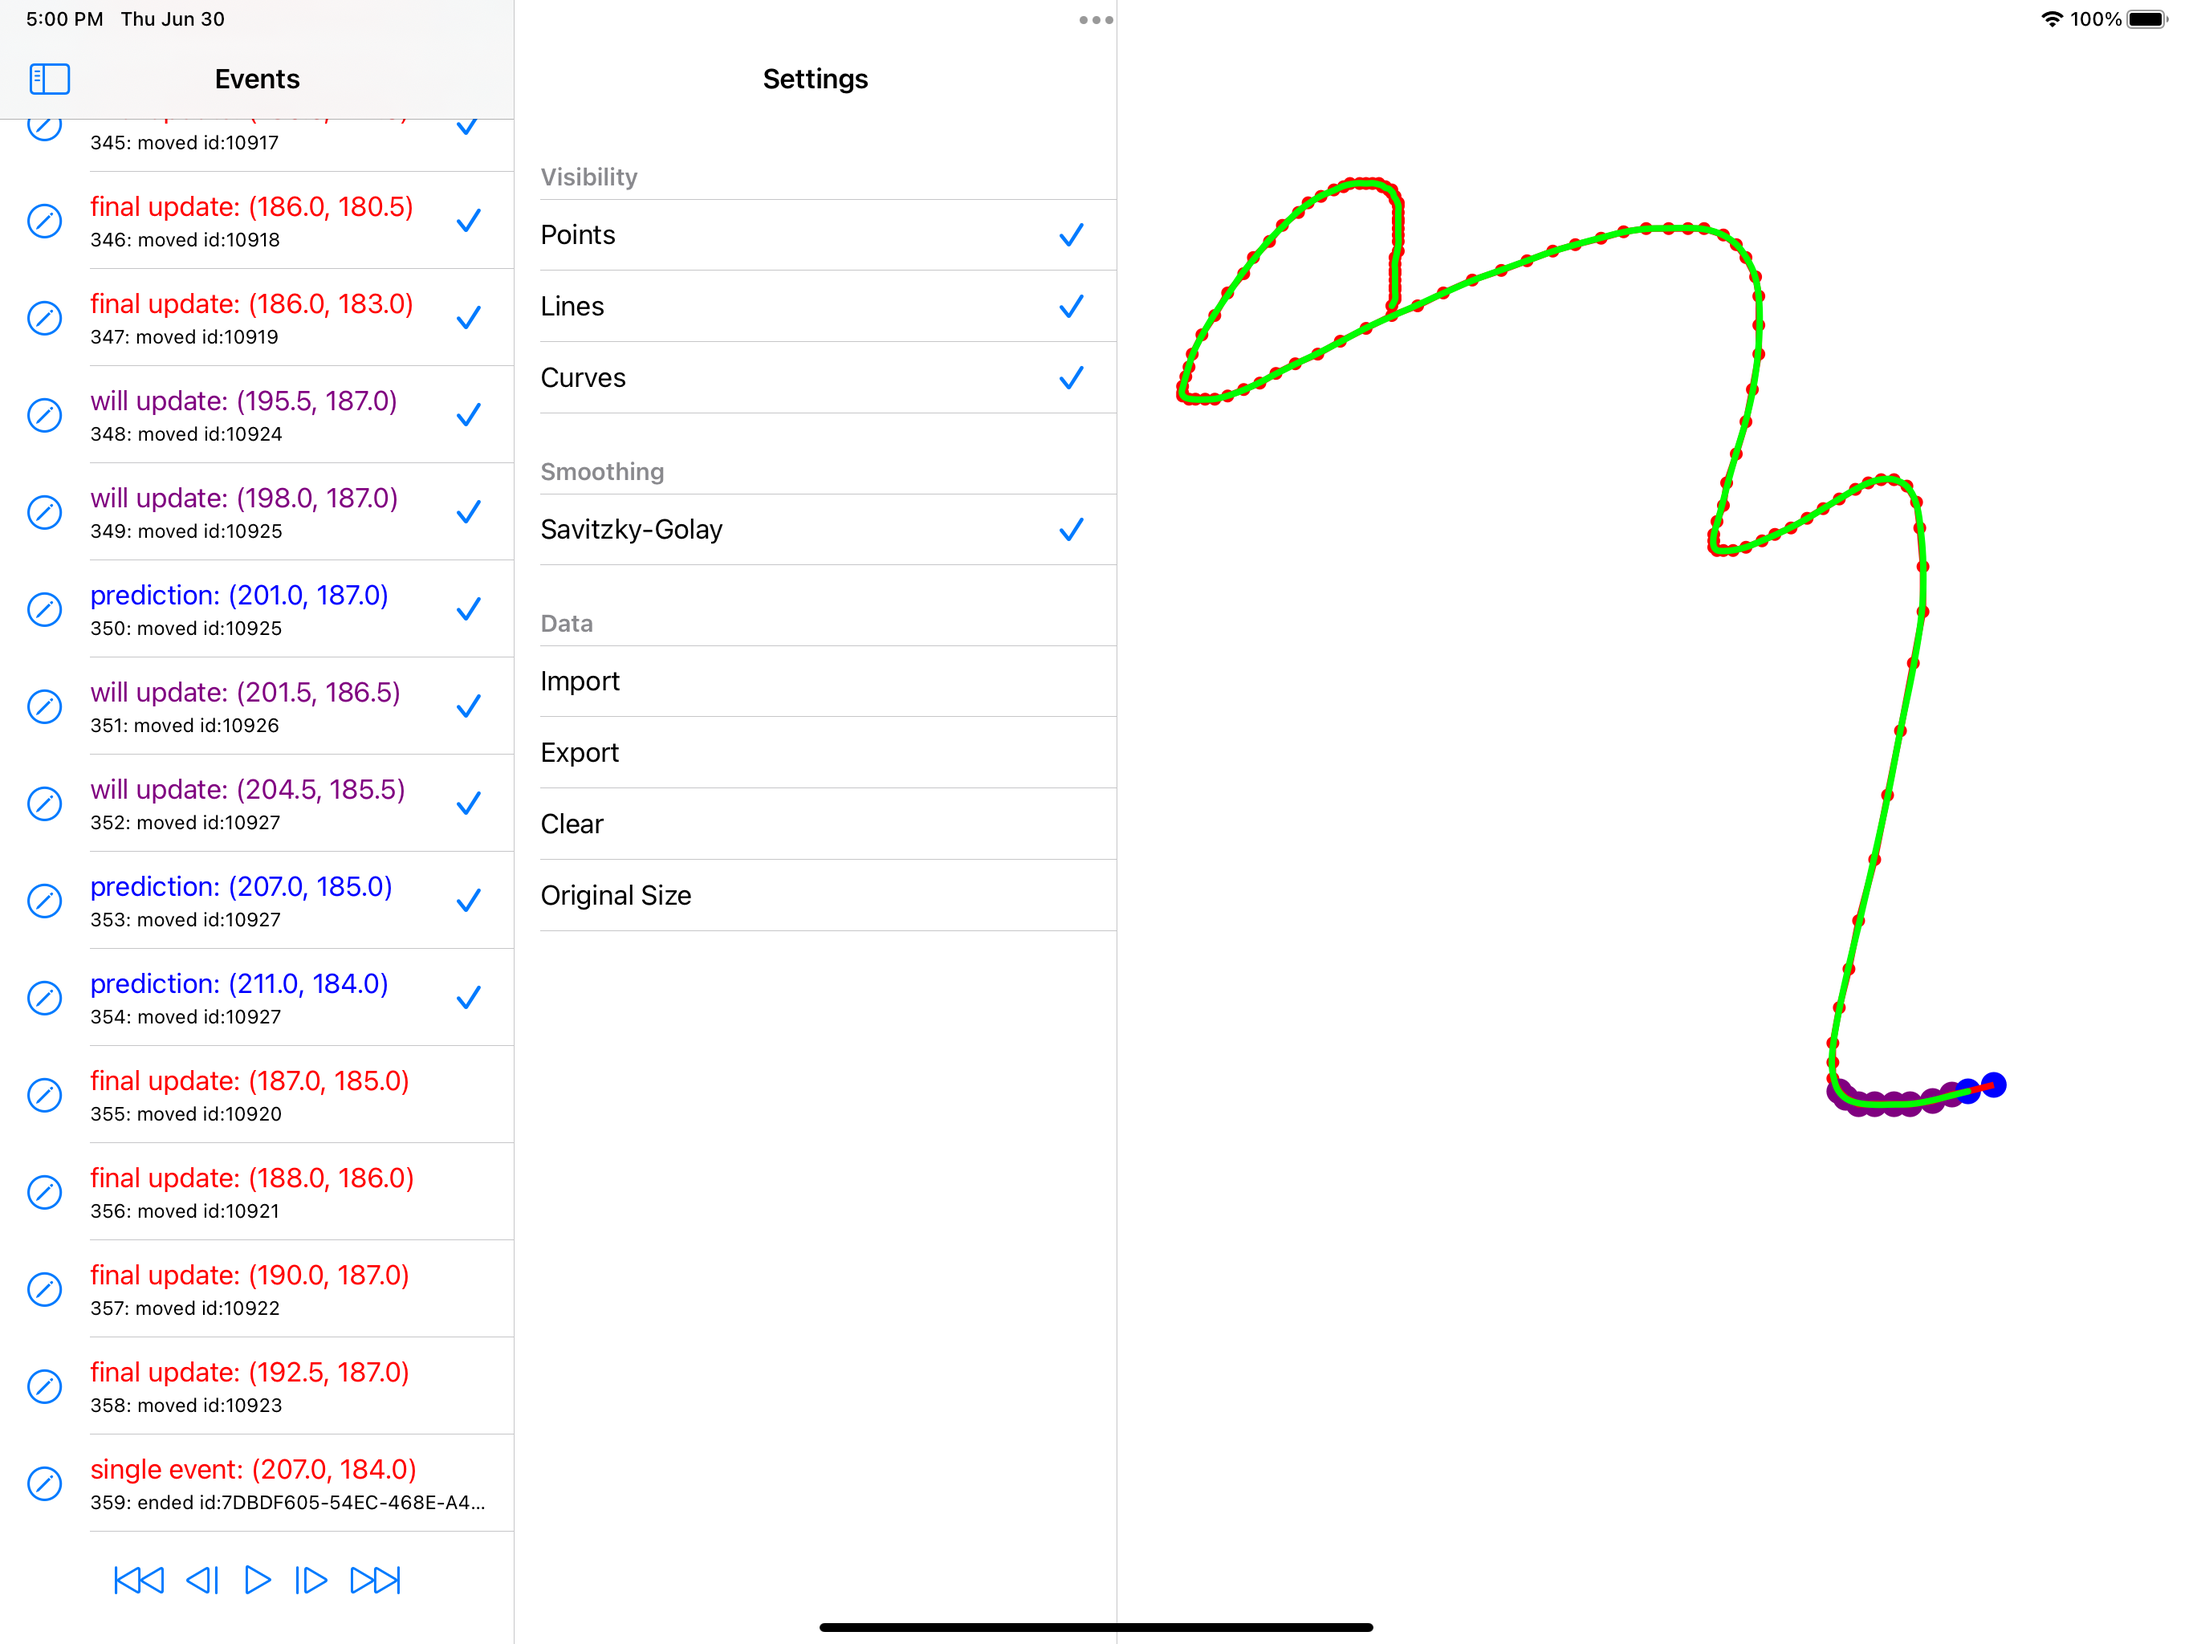
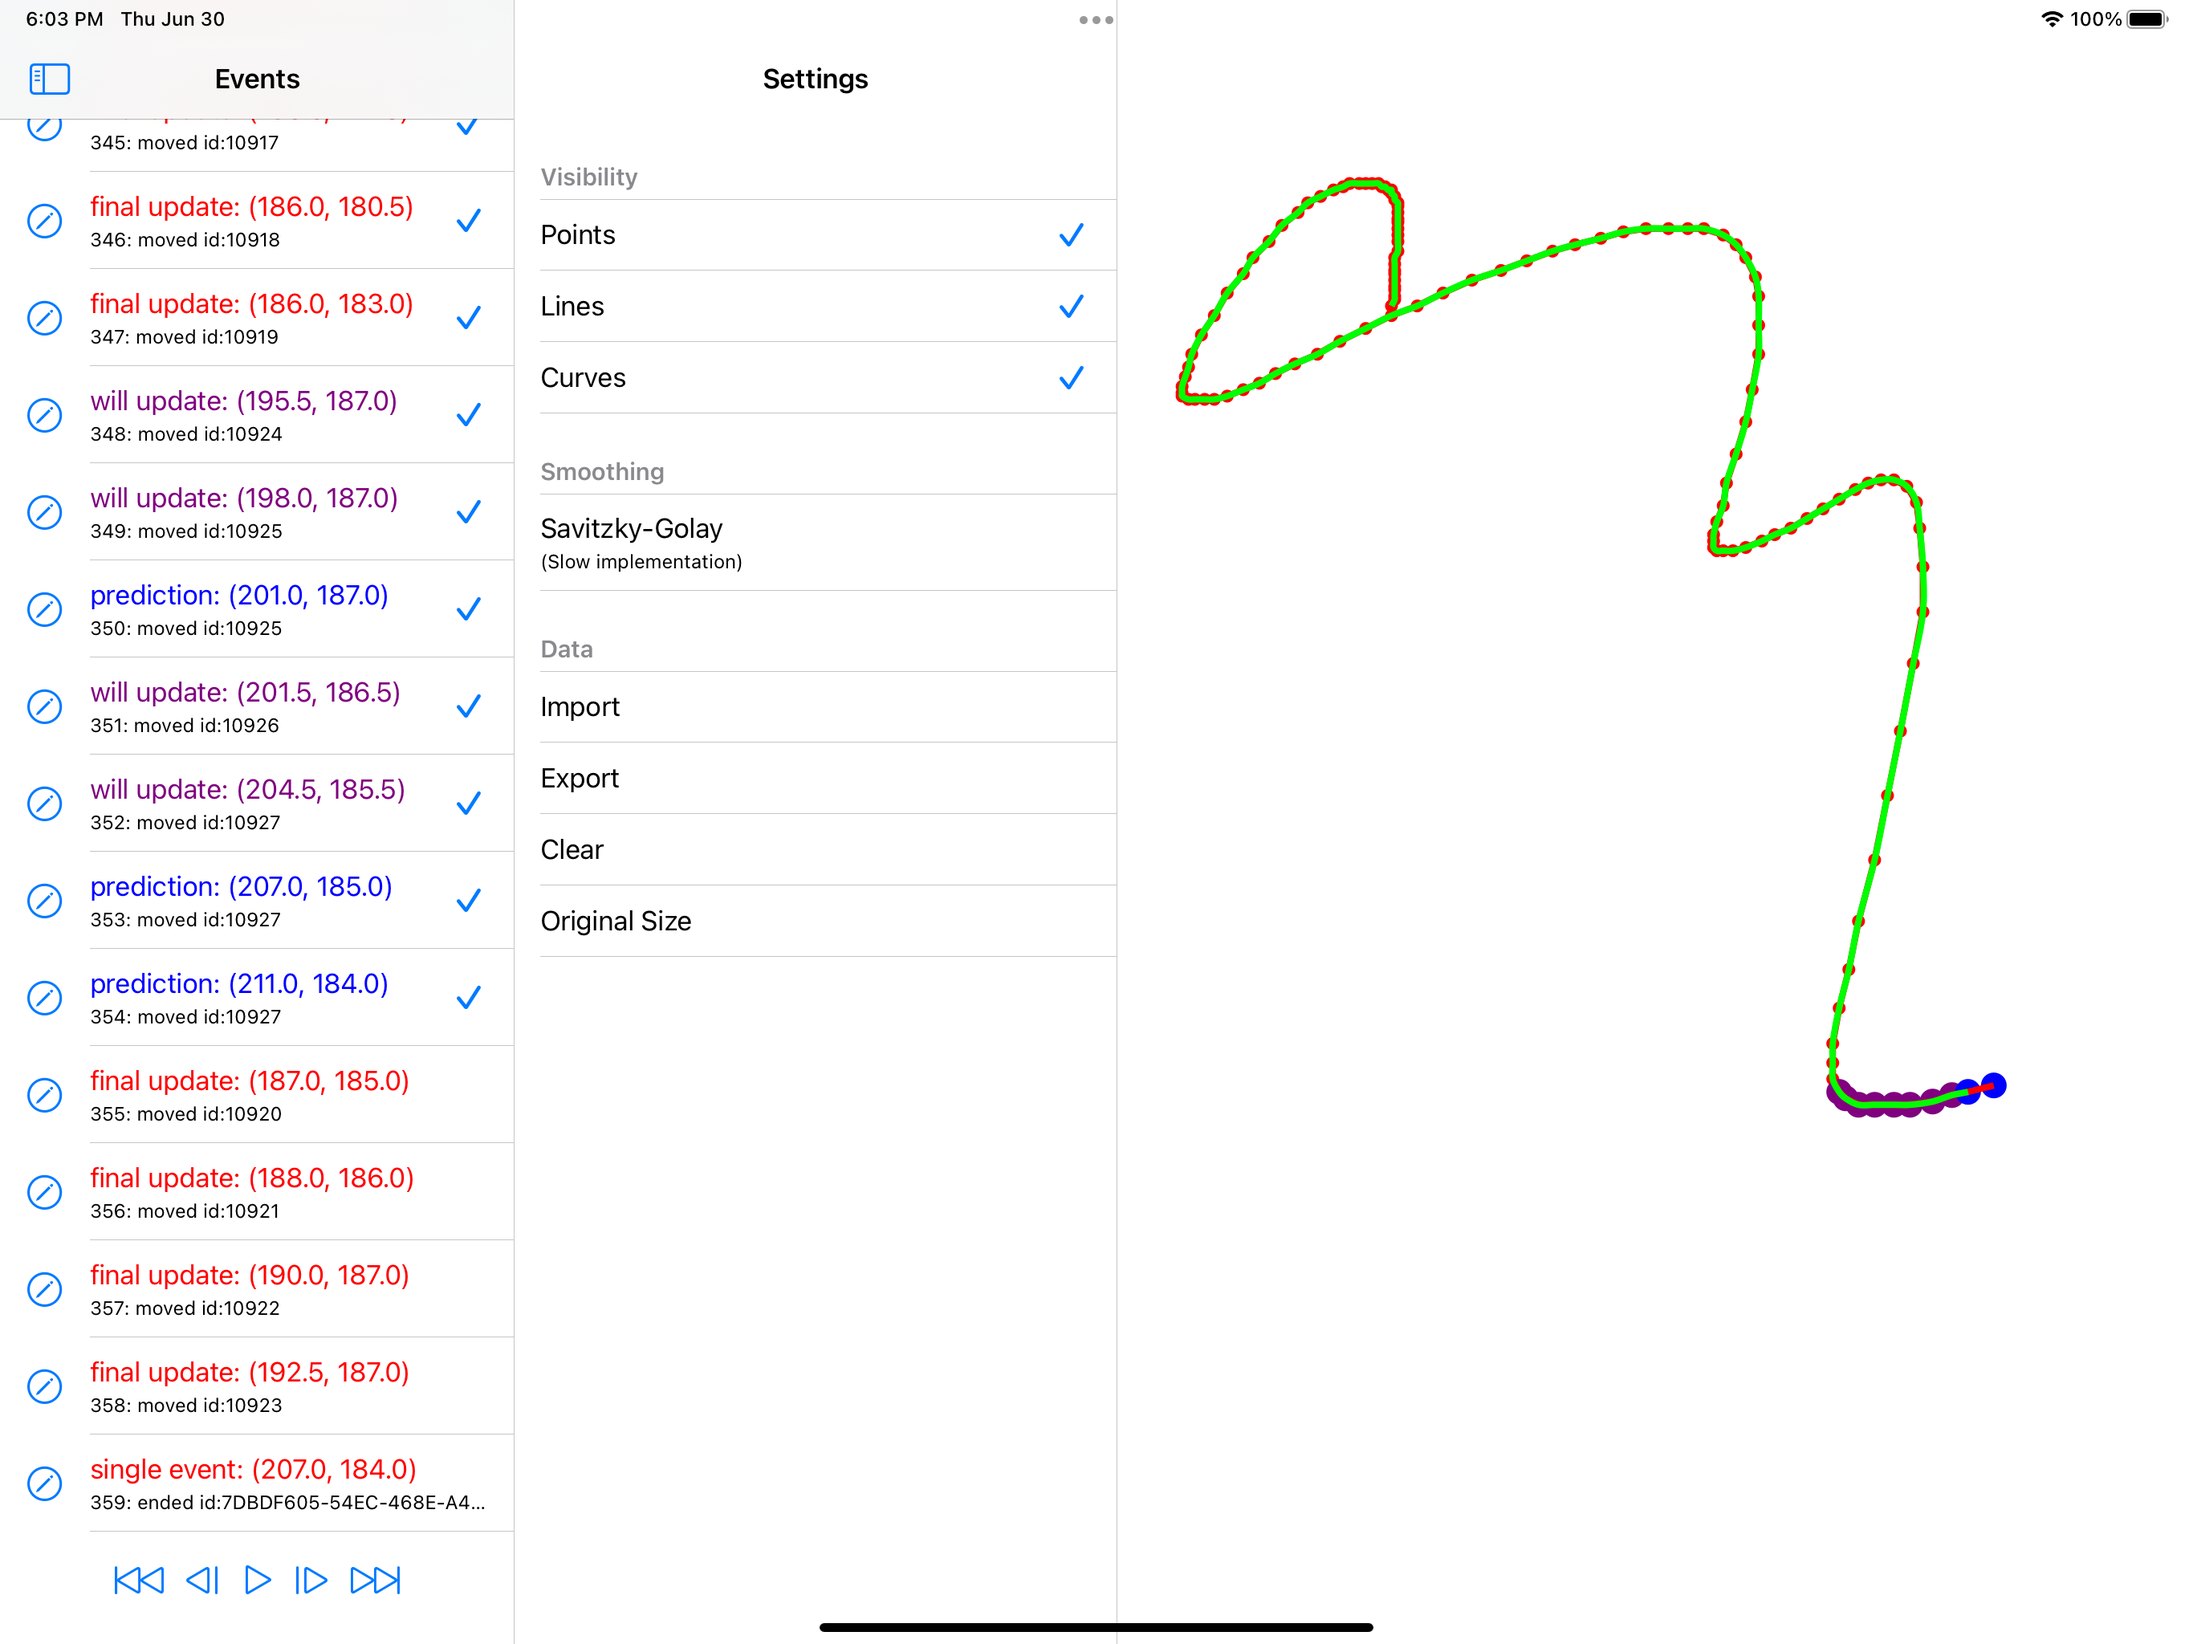
Note about naive implementation of Savitzky-Golay smoothing

Changed region(s): [[0.2489, 0.375, 0.3111, 0.5625], [0.2489, 0.3125, 0.3422, 0.3438], [0.84, 0.6562, 0.9023, 0.6875]]

diff --git a/Example/Example/SettingsViewController.swift b/Example/Example/SettingsViewController.swift
@@ -102,6 +102,7 @@ class SettingsViewController: UITableViewController {
         var content = cell.defaultContentConfiguration()
 
         content.text = option.name
+        content.secondaryText = nil
         switch option {
         case .showPoints:
             cell.accessoryType = pointsEnabled ? .checkmark : .none
@@ -111,6 +112,7 @@ class SettingsViewController: UITableViewController {
             cell.accessoryType = curvesEnabled ? .checkmark : .none
         case .smoothSavitzkyGolay:
             cell.accessoryType = savitzkyGolayEnabled ? .checkmark : .none
+            content.secondaryText = "(Slow implementation)"
         case .sizeToFit:
             if let settingsDelegate = settingsDelegate,
                settingsDelegate.isFitToSize {
